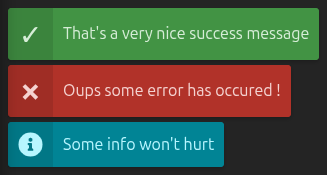
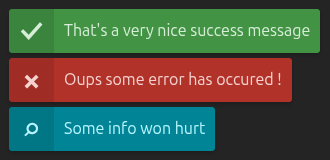
Style improved & simplified. README updated

diff --git a/app/src/flash/flash.scss b/app/src/flash/flash.scss
@@ -1,6 +1,5 @@
 @use "sass:color";
-@use "./flash-variables";
-
+@use "variables" as flash;
 
 .notifications-container {
     position: fixed;
@@ -13,14 +12,13 @@
     align-items: start;
     pointer-events: none;
     font-size: 1rem;
-    line-height: 1.5;
     *, *::before, *::after {
         box-sizing: border-box;
     }
 
     .notification {
-        $notif-padding: 10px;
-        background-color: #fff;
+        background-color: #eee;
+        color: #555;
         border-radius: 3px;
         box-shadow: 0 2px 4px rgba(0, 0, 0, 0.2);
         cursor: default;
@@ -34,7 +32,7 @@
         }
 
         >* {
-            padding: $notif-padding;
+            padding: 10px;
         }
 
         .notif-icon {
@@ -45,15 +43,15 @@
             background-color: rgba(0, 0, 0, 0.1);
             font-weight: bold;
             font-size: 2em;
-            line-height: 1;
-            font-family: monospace;
+            line-height: 0;
+            overflow: hidden;
         }
         .notif-message {
             display: flex;
             align-items: center;
         }
 
-        @each $name, $color in flash-variables.$flash-colors {
+        @each $name, $color in flash.$flash-colors {
             &.#{$name} {
                 color: color.scale($color, $lightness: +80%);
                 background-color: $color;

diff --git a/app/src/flash/Flash.vue b/app/src/flash/Flash.vue
@@ -1,8 +1,3 @@
-<style lang="scss">
-@use 'flash';
-</style>
-
-
 <template>
     <div class="notifications-container">
         <div v-for="notif in Flash.notifications.value" @click="Flash.remove(notif)" class="notification"

diff --git a/app/src/App.vue b/app/src/App.vue
@@ -1,3 +1,7 @@
+<style lang="scss">
+@use "flash";
+</style>
+
 <template>
   <Flash>
     <template #icons="slotProps">

diff --git a/app/src/flash/index.scss b/app/src/flash/index.scss
@@ -1,0 +1,2 @@
+@forward "variables";
+@forward "flash";

diff --git a/README.md b/README.md
@@ -14,7 +14,7 @@ npm i vue-flash3
 
 ```vue
 <style>
-@use 'vue-flash3/style.css';
+@use 'vue-flash3';
 </style>
 
 <template>
@@ -45,16 +45,17 @@ import { instance as FlashI } from 'vue-flash3'
 
 FlashI.add('That\'s a very nice success message', 'success')
 FlashI.add('Oups some error has occured !', 'error')
-FlashI.add('Some info won\t hurt', 'info')
+FlashI.add('Some info won\'t hurt', 'info')
 ```
 
 ![Builtin notifications](./images/sc-basic-notifs.png)
 
-However any other types can be defined simply by defining [a color](#colors) and [an icon](#icons)
+However any other types can be defined simply by setting [a color](#colors) and [an icon](#icons)
 
 ## Message duration
 
-A third optionnal param is here to define a duration in milliseconds (default: 0 meaning the notification should stay) after which the notification disappears
+A third optionnal param is here to set the duration in milliseconds after which the notification disappears.
+_The default is 0 meaning the notification should stay_
 
 ```js
 import { instance as FlashI } from 'vue-flash3'
@@ -62,9 +63,9 @@ import { instance as FlashI } from 'vue-flash3'
 FlashI.add('That\'s a very nice success message', 'success', 5000) // Will be shown 5 seconds
 ```
 
-## Removing message
+## Removing a message
 
-The `add()` function returns the notification so it can be removed with `remove()`
+The `add()` function returns the notification so it can be removed programmatically with `remove()`
 
 ```vue
 <template>
@@ -103,31 +104,29 @@ $flash-colors: (
 
 Any type can be added and colors defined
 
-Example:
+**Example**
 
 ```scss
-$flash-colors: (
-    toto: pink,
+@use "vue-flash3" as * with (
+  $flash-colors: (
+      toto: rgb(157, 32, 136),
+  )
 );
 ```
 
 ```js
 import { instance as FlashI } from 'vue-flash3'
 
-FlashI.add('A pink message', 'pink')
+FlashI.add('A Violet notification', 'toto')
 ```
+
+![Custom color](./images/sc-violet-notif.png)
 
 ### Icons
 
-Icons can be disabled by simply setting the `noicon` prop
-
-```vue
-<Flash :noicon="true" />
-```
-
-![No icon](./images/sc-no-icon.png)
-
 The icon part can contain anything by implementing the `icons` slot
+
+**Example**
 
 ```vue
 <template>
@@ -144,7 +143,7 @@ import { Flash, instance as FlashI } from 'vue-flash3'
 import IconInfo from './icons/info-circle-solid.svg'
 
 onMounted(() => {
-    FlashI.add('Some info won\t hurt', 'info')
+    FlashI.add('Some info won\'t hurt', 'info')
 })
 </script>
 ```
@@ -152,6 +151,55 @@ onMounted(() => {
 _We are using [vite-svg-loader](https://github.com/jpkleemans/vite-svg-loader) here with an icon from [Font-Awesome](https://fontawesome.com/)_
 
 ![Custom icon](./images/sc-custom-icon.png)
+
+Icons can also be disabled by simply setting the `noicon` prop
+
+```vue
+<Flash :noicon="true" />
+```
+
+![No icon](./images/sc-no-icon.png)
+
+### HTML
+
+HTML content can be defined on the message (watch out for XSS)
+
+```js
+FlashI.add('A Violet<br />notification', 'toto')
+```
+
+![HTML content](./images/sc-html-message.png)
+
+### Putting it all together
+
+```vue
+<style lang="scss">
+@use "flash" as * with (
+  $flash-colors: (
+      toto: rgb(120, 137, 19),
+  )
+);
+</style>
+
+<template>
+  <Flash>
+    <template #icons="slotProps">
+      <span v-if="slotProps.type === 'toto'">&clubs;</span>
+    </template>
+  </Flash>
+</template>
+
+<script setup lang="ts">
+import { onMounted } from 'vue'
+import { Flash, instance as FlashI } from './flash'
+
+onMounted(() => {
+  FlashI.add('<b>Nice title</b><div>We are feeling lucky today</div>', 'toto')
+})
+</script>
+```
+
+![All together](./images/sc-all-together.png)
 
 # Develop
 
